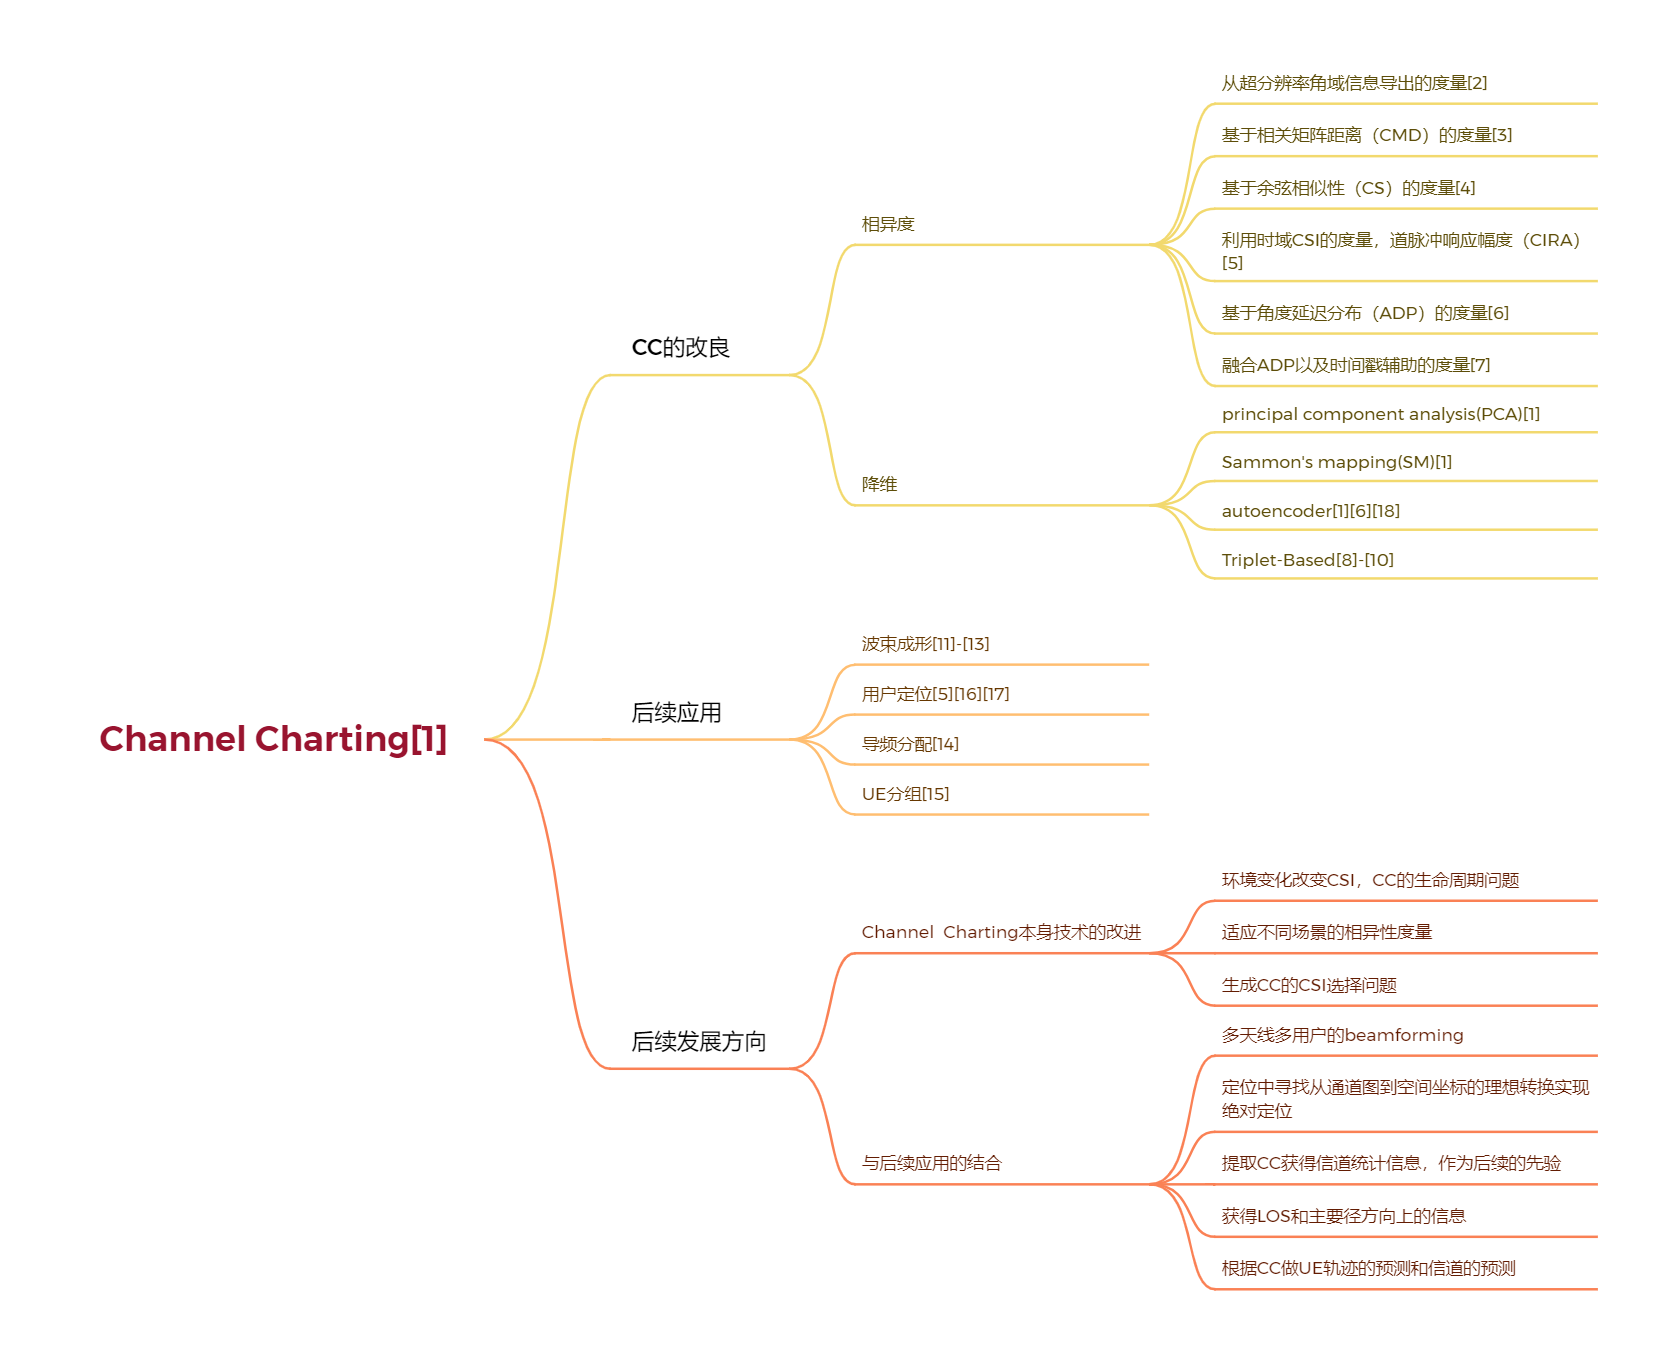
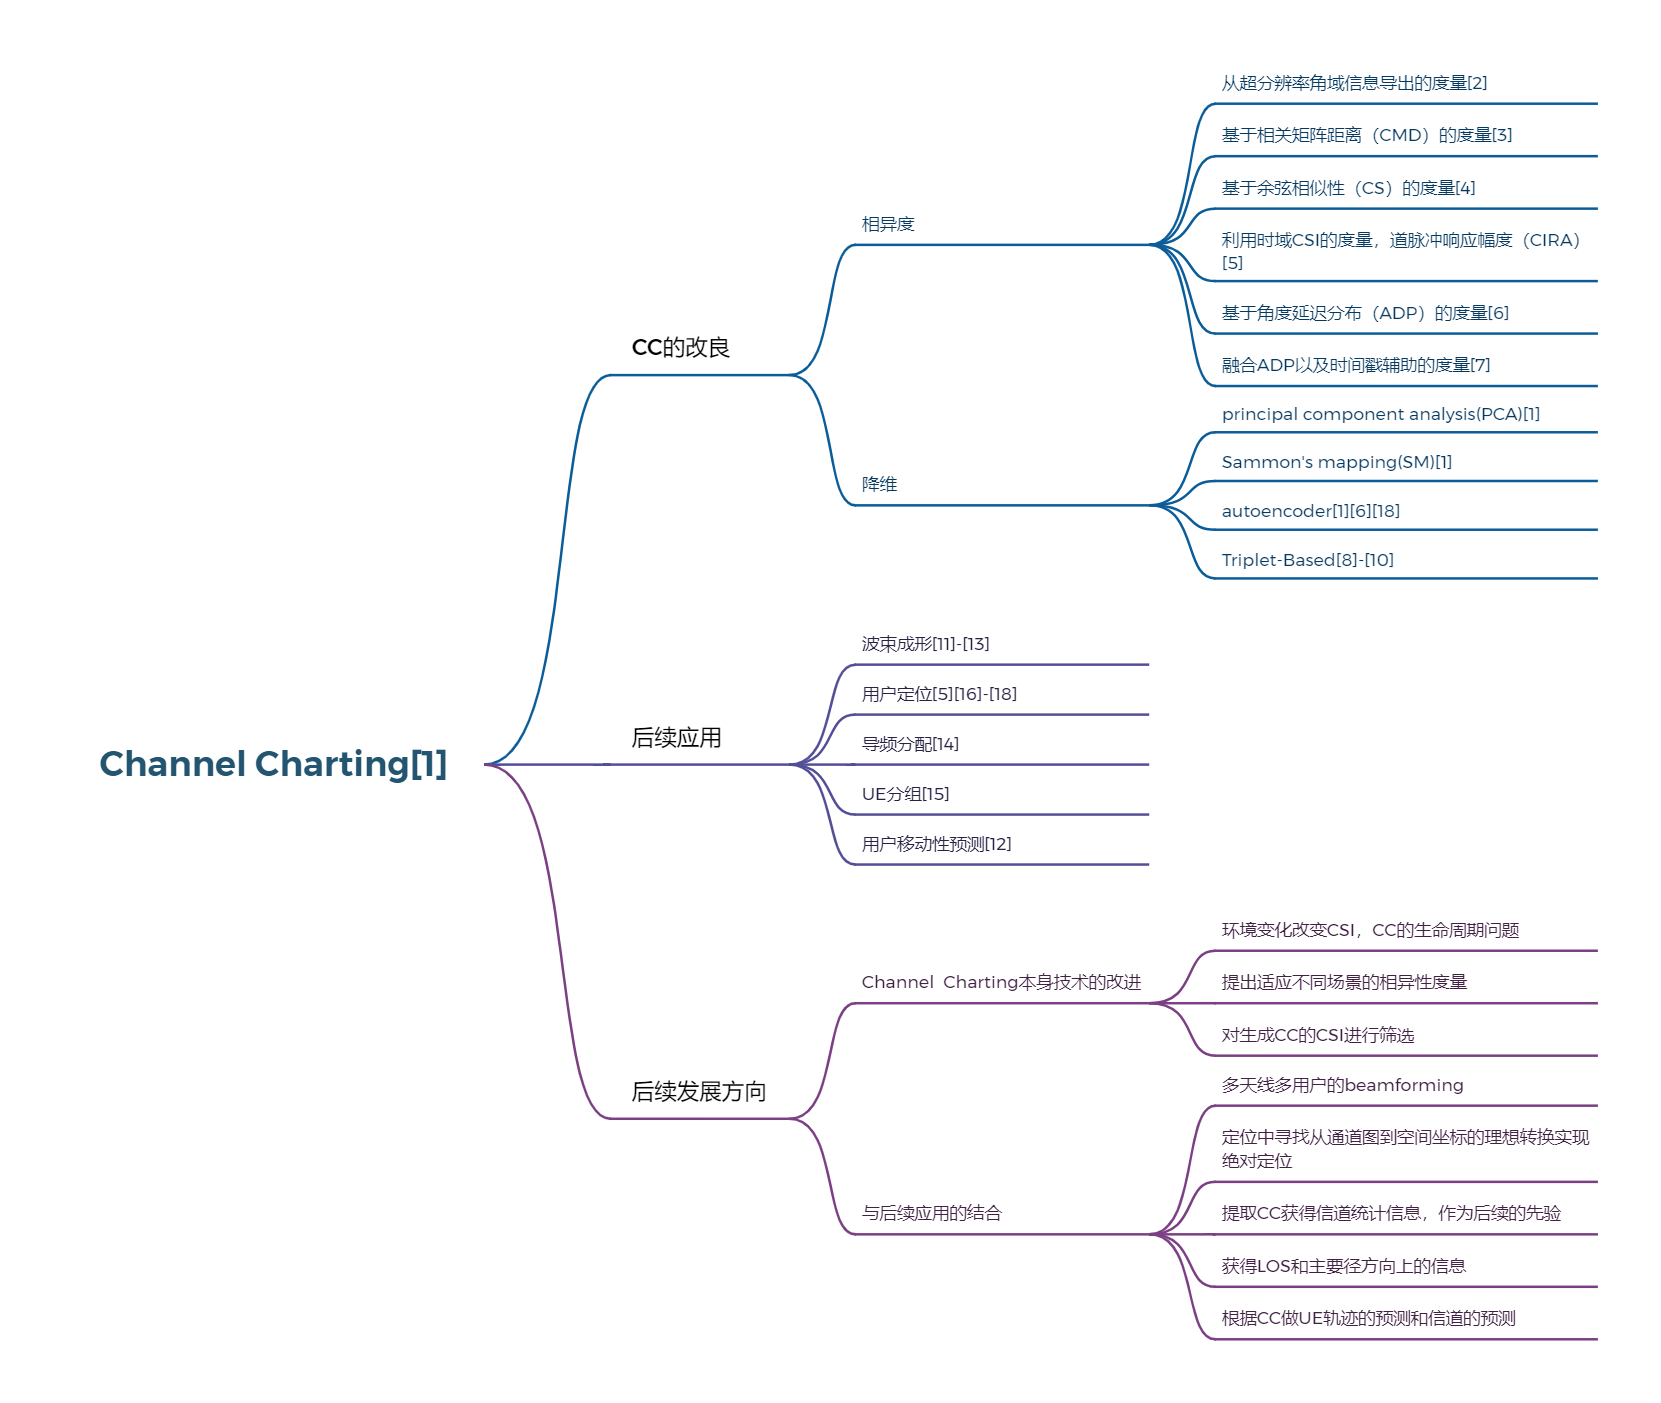
....

diff --git a/Channel Charting.md b/Channel Charting.md
@@ -382,4 +382,23 @@ $$
 
 ### 未来工作
 
-可以将小区内波束SNR预测方法将扩展到小区间波束SNR预测。
+可以将小区内波束SNR预测方法将扩展到小区间波束SNR预测。可以结合"Multipoint Channel Charting for Wireless Networks"所提出的多小区CC融合方法来进行小区间波束预测切换。
+
+---
+
+### 十二、Multipoint Channel Charting for Wireless Networks
+
+该方法利用了多个分布式BS从时空样本中被动收集的大量高维信道状态信息（CSI）。在每个BS处，高分辨率多径信道参数估计算法提取隐藏在所获取的CSI中的特征。然后，每个BS基于为其收集的样本提取的特征构建局部相异性矩阵，并将其提供给执行特征融合和流形学习的集中式实体，以构建多小区信道图。目的是以这样一种方式绘制蜂窝系统的无线电几何图形，即两个用户之间的空间距离非常接近他们的CSI特征距离。
+
+---
+
+10月9日讨论：
+
+1. "Channel Charting Based Beam SNR Prediction"论文中波束预测和SNR预测虽然说是多用户，但实际上因为它仿真用的QuadriGa信道模型有空间连续性和时间演化性，所以本质上还是一个单用户的工作，实际上多用户撒点时，散射体完全是独立随机产生的，同一位置，同一时刻不同用户测得的CSI也有可能不一样。
+2. 文章中的工作其实只是查表，那考虑UE已经移动了，但CSI还没有发过来，那么如何根据CC预测一个最优beamforming
+3. 结合基于CC做beam forming的那篇文章思考，如何使用CC做一个CSI的预测，怎么结合上一个时刻h和当前时刻CC提供的一个粗粒度信息去得到更精准的CSI预测
+4. "Joint Channel Estimation and User Grouping for Massive MIMO Systems"两个用户位置靠近会共享一些稀疏结构，做一个联合估计，或者可以变换一下场景，由多用户转化为单用户场景，一个用户在移动，那么结合上一时刻和当前时刻的两个测量值做一个联合估计。
+
+**接下来的工作方向**
+
+先改进波束管理：(从改进信道图生成质量和预测手段改进上)，熟悉流程，后续再变换场景，扩展到移动场景的CSI预测上。
